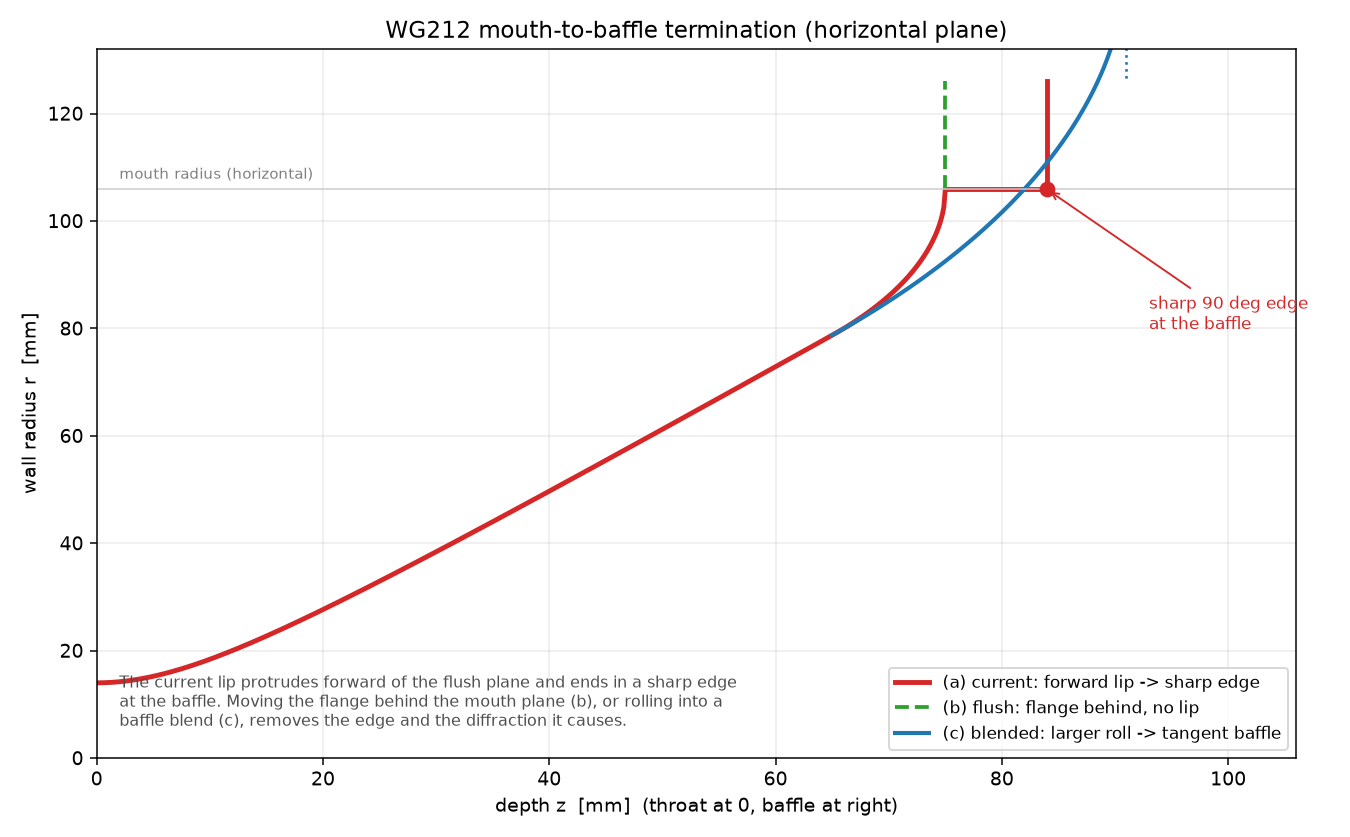
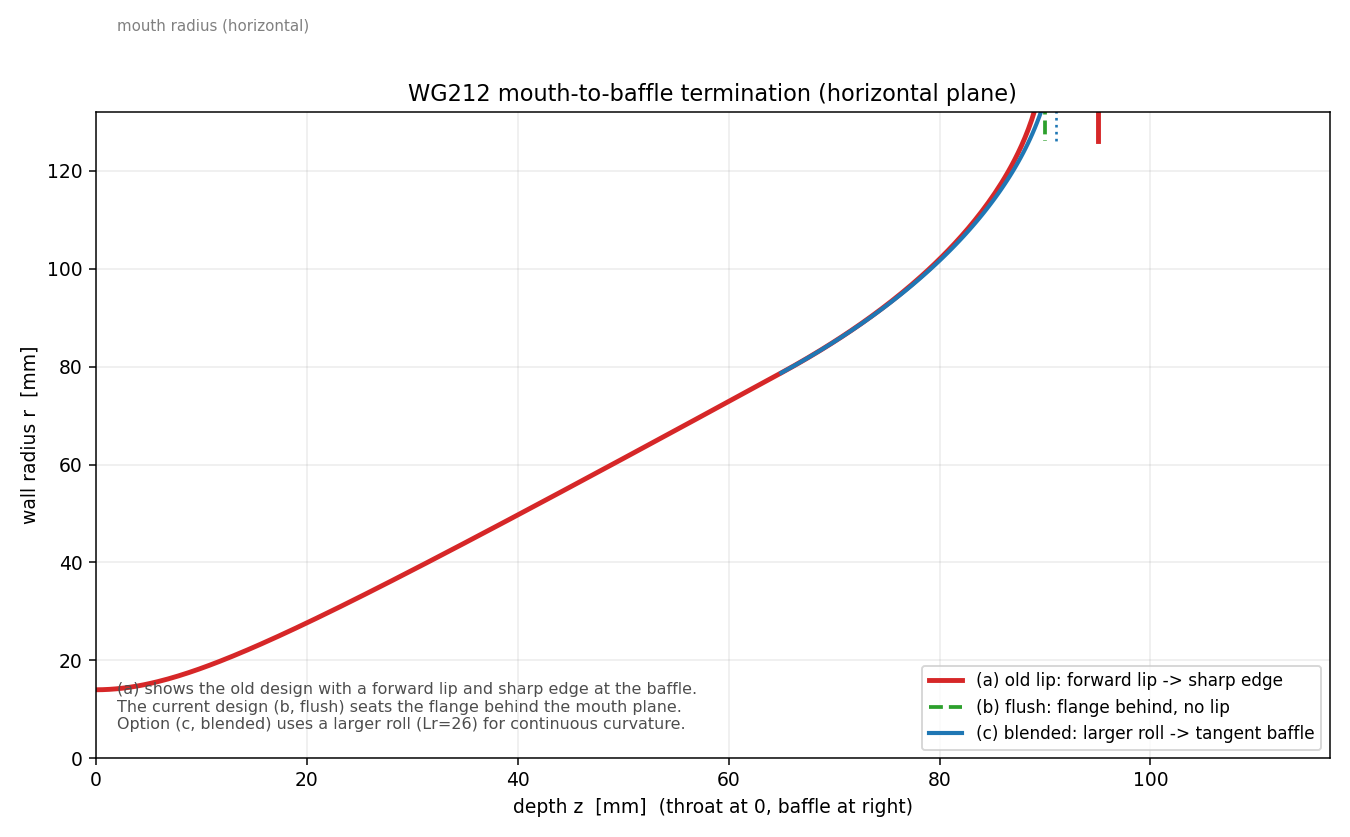
fix(sim): sync waveguide_profile.py Lr=25 with SCAD source-of-truth
waveguide_profile.py had Lr=10.0 while cad/waveguide.scad has Lr=25 (set
in commit d807ab0 on Joachim's request for deeper mouth roundover).
The mismatch meant simulations showed a shallower roll than what the
SCAD generates — waveguide_termination.png was incorrect.

- Lr: 10.0 -> 25.0 (matches SCAD)
- flange_t: 9.0 -> 5.0 (matches SCAD's flange_thick)
- Docstring updated to Mk3, flush design, Lr history
- Plot labels: 'current: forward lip' -> 'old lip: forward lip'
- Annotation updated to describe design evolution
- .gitignore: add simulations/__pycache__/ (was missing)
- Include crossover_175_vs_200_decision.png from today's test as
  decision record (200 Hz BW4 confirmed optimal)

diff --git a/simulations/waveguide_profile.py b/simulations/waveguide_profile.py
@@ -1,19 +1,21 @@
 """
-Mk2 Reference Loudspeaker - WG212 mouth-to-baffle termination study
+Mk3 Reference Loudspeaker - WG212 mouth-to-baffle termination study
 ===================================================================
 
-Why: the current waveguide model (cad/waveguide.scad) rolls the bore to a
-flush tangent at z = D_tot, but then adds the mounting flange *forward* of that
-plane and cuts the mouth as a straight prism through it. The last `flange_thick`
-mm are therefore a straight, axial "lip" that ends in a sharp 90 deg edge at the
-baffle surface -> mouth diffraction, audible as off-axis / spinorama ripple.
+Why: the waveguide termination at the baffle matters for diffraction.
+The current waveguide model (cad/waveguide.scad) seats the flange *behind*
+the flush mouth plane — the bore rolls to a flush tangent at z = D_tot
+with no forward lip.
 
 This script draws the waveguide wall in the r-z plane (horizontal plane,
-theta_h) for:
-  (a) CURRENT   : OS + roll + forward straight lip (sharp edge at the baffle)
-  (b) FLUSH     : same roll, flange moved *behind* the mouth plane -> no lip
-  (c) BLENDED   : flush + a baffle roundover (secondary radius) that lets the
-                  mouth flow into the flat baffle with continuous curvature.
+theta_h) comparing three approaches:
+  (a) OLD LIP  : forward straight lip (sharp 90 deg edge at the baffle)
+  (b) FLUSH    : flush mouth plane, flange behind (CURRENT design)
+  (c) BLENDED  : larger roll (Lr=26) for continuous baffle curvature
+
+NOTE: Lr was increased from 10 to 25 on Joachim's request (commit d807ab0)
+to match the H2606 waveguide depth and improve baffle blend. The Python
+values are now synced to the SCAD source-of-truth.
 
 ASSUMPTIONS: purely geometric (matches the OpenSCAD profile math). Diffraction
 severity is argued qualitatively; the real proof is a measurement of the printed
@@ -31,8 +33,8 @@ import matplotlib.pyplot as plt
 r_t       = 28/2.0
 theta     = 50.0           # theta_h [deg]
 D_os      = 65.0
-Lr        = 10.0           # current roundover forward depth
-flange_t  = 9.0
+Lr        = 25.0           # current roundover forward depth
+flange_t  = 5.0           # SCAD: flange_thick (cad/waveguide.scad)
 flange_hw = 252/2.0        # flange half-width (horizontal)
 
 tan, sin, cos = (lambda d: np.tan(np.radians(d)),
@@ -62,7 +64,7 @@ fig, ax = plt.subplots(figsize=(10, 6.2))
 ax.plot(np.r_[z_os, z_roll], np.r_[r_os, r_roll], color="tab:red", lw=2.6)
 ax.plot([D_tot, D_tot+flange_t], [mouth_r, mouth_r], color="tab:red", lw=2.6)      # axial lip
 ax.plot([D_tot+flange_t, D_tot+flange_t], [mouth_r, flange_hw], color="tab:red",
-        lw=2.6, label="(a) current: forward lip -> sharp edge")
+        lw=2.6, label="(a) old lip: forward lip -> sharp edge")
 ax.scatter([D_tot+flange_t], [mouth_r], color="tab:red", zorder=6, s=55)
 ax.annotate("sharp 90 deg edge\nat the baffle", (D_tot+flange_t, mouth_r),
             xytext=(D_tot+flange_t+9, mouth_r-26), color="tab:red", fontsize=9,
@@ -89,9 +91,9 @@ ax.set_title("WG212 mouth-to-baffle termination (horizontal plane)")
 ax.set_xlim(0, D_tot+flange_t+22); ax.set_ylim(0, flange_hw+6)
 ax.grid(True, alpha=0.25); ax.legend(loc="lower right", fontsize=9)
 ax.text(2, 6,
-        "The current lip protrudes forward of the flush plane and ends in a sharp edge\n"
-        "at the baffle. Moving the flange behind the mouth plane (b), or rolling into a\n"
-        "baffle blend (c), removes the edge and the diffraction it causes.",
+        "(a) shows the old design with a forward lip and sharp edge at the baffle.\n"
+        "The current design (b, flush) seats the flange behind the mouth plane.\n"
+        "Option (c, blended) uses a larger roll (Lr=26) for continuous curvature.",
         fontsize=8.5, color="0.3")
 
 out = os.path.join(os.path.dirname(__file__), "plots", "waveguide_termination.png")